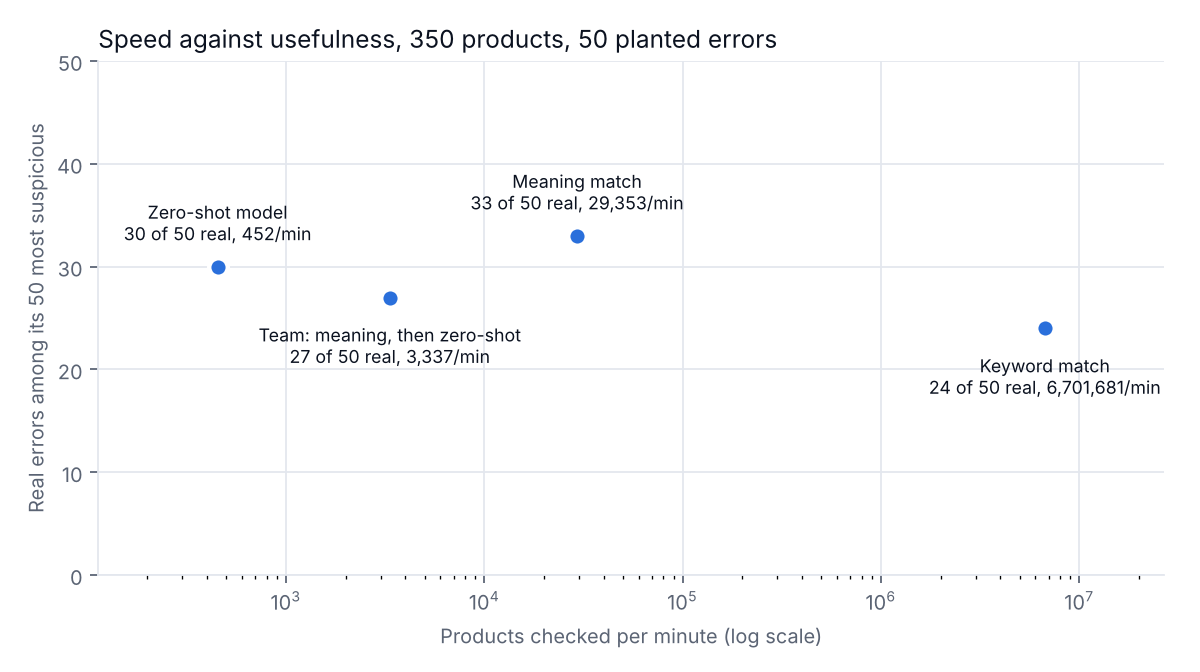
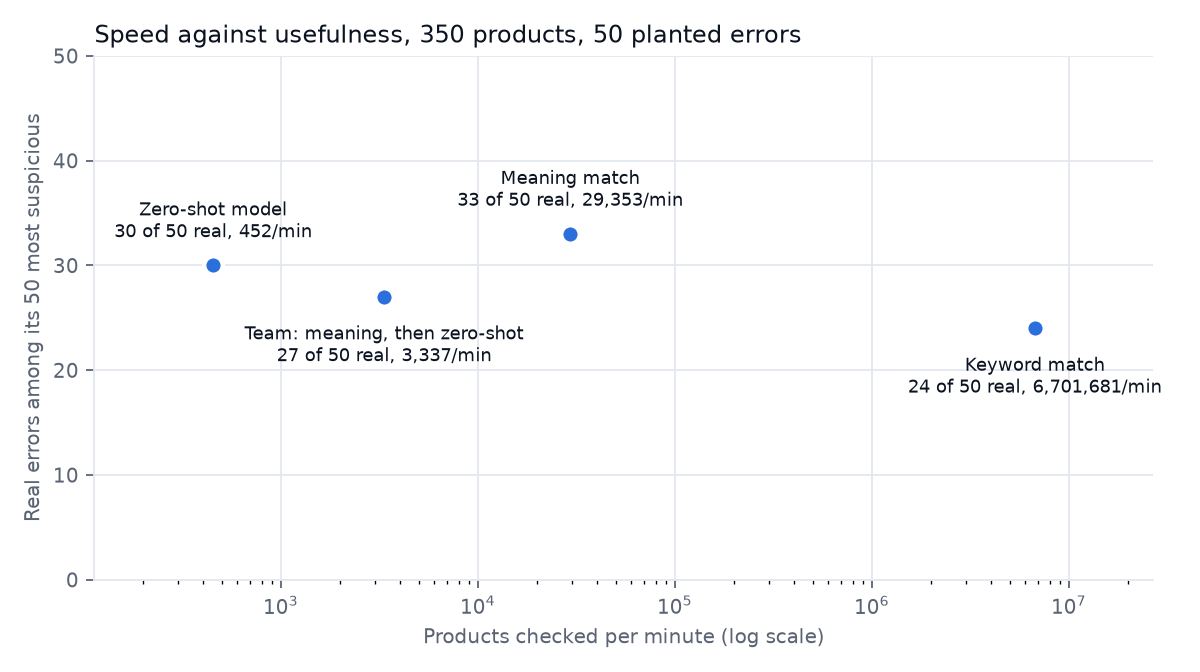
Catalogue checker: hand check

diff --git a/results/summary.md b/results/summary.md
@@ -10,3 +10,5 @@
 | Team: meaning, then zero-shot | 27 of 50 | 49 of 50 | 76 | 0.39 | 0.98 | 3,337 |
 
 **At scale:** 5,000 products checked by the team in 1.45 minutes; 664 went to the slow model; 1,366 flagged for review.
+
+**Hand check:** of 40 products whose category was not changed, a person judged 7 to be filed wrongly in the source data.
